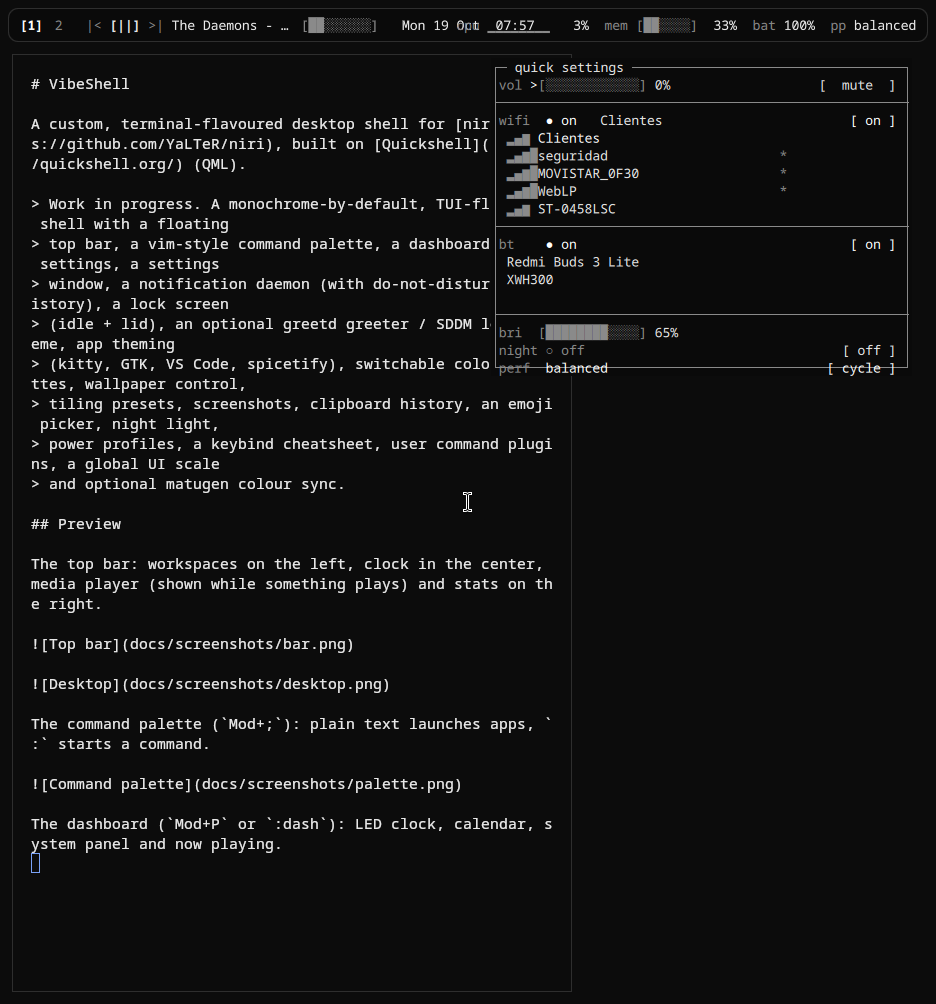
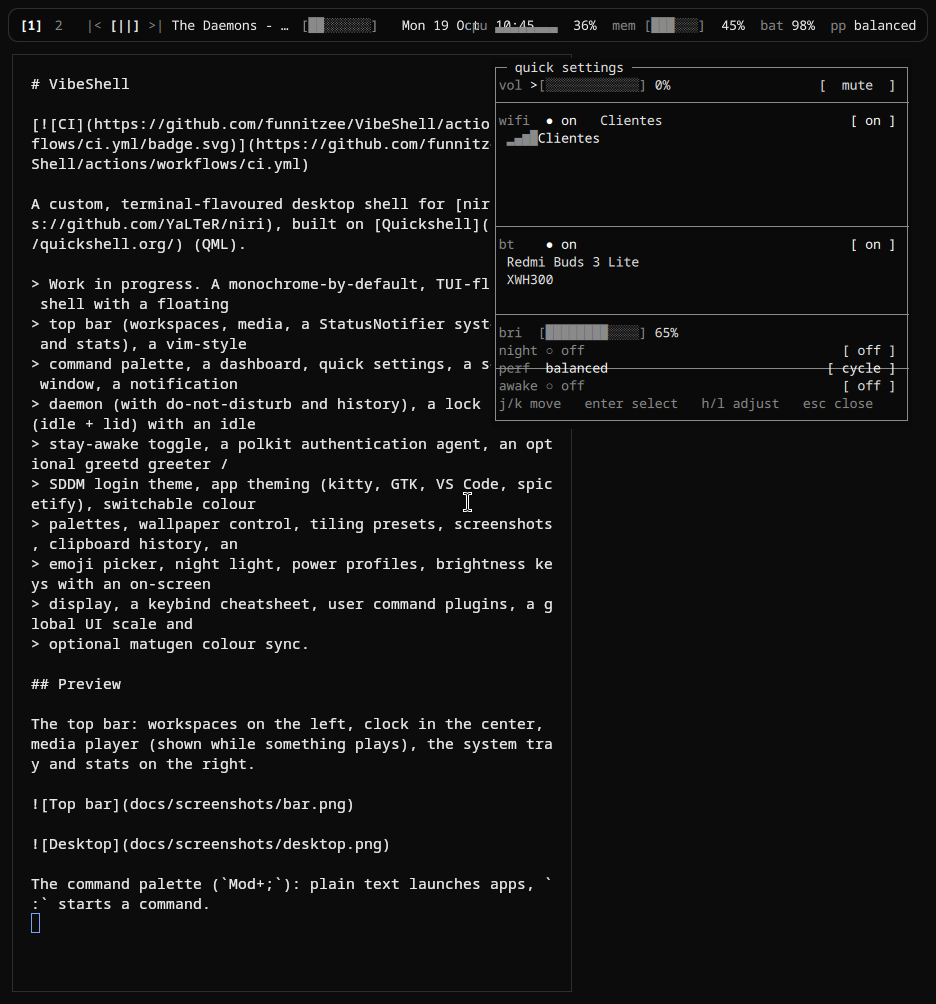
docs: cover tray, polkit, brightness, stay-awake and releases
Refresh the screenshots and document the system tray, the polkit agent, the
brightness keys/OSD, the idle stay-awake toggle, the lint + release workflows
and the new roadmap entries.

diff --git a/README.md b/README.md
@@ -5,17 +5,19 @@
 A custom, terminal-flavoured desktop shell for [niri](https://github.com/YaLTeR/niri), built on [Quickshell](https://quickshell.org/) (QML).
 
 > Work in progress. A monochrome-by-default, TUI-flavoured shell with a floating
-> top bar, a vim-style command palette, a dashboard, quick settings, a settings
-> window, a notification daemon (with do-not-disturb and history), a lock screen
-> (idle + lid), an optional greetd greeter / SDDM login theme, app theming
-> (kitty, GTK, VS Code, spicetify), switchable colour palettes, wallpaper control,
-> tiling presets, screenshots, clipboard history, an emoji picker, night light,
-> power profiles, a keybind cheatsheet, user command plugins, a global UI scale
-> and optional matugen colour sync.
+> top bar (workspaces, media, a StatusNotifier system tray and stats), a vim-style
+> command palette, a dashboard, quick settings, a settings window, a notification
+> daemon (with do-not-disturb and history), a lock screen (idle + lid) with an idle
+> stay-awake toggle, a polkit authentication agent, an optional greetd greeter /
+> SDDM login theme, app theming (kitty, GTK, VS Code, spicetify), switchable colour
+> palettes, wallpaper control, tiling presets, screenshots, clipboard history, an
+> emoji picker, night light, power profiles, brightness keys with an on-screen
+> display, a keybind cheatsheet, user command plugins, a global UI scale and
+> optional matugen colour sync.
 
 ## Preview
 
-The top bar: workspaces on the left, clock in the center, media player (shown while something plays) and stats on the right.
+The top bar: workspaces on the left, clock in the center, media player (shown while something plays), the system tray and stats on the right.
 
 ![Top bar](docs/screenshots/bar.png)
 
@@ -29,7 +31,7 @@ The dashboard (`Mod+P` or `:dash`): LED clock, calendar, system panel and now pl
 
 ![Dashboard](docs/screenshots/dashboard.png)
 
-The quick settings panel (`Mod+S` or `:qs`): volume, Wi-Fi, Bluetooth and brightness. Navigate with `j`/`k`, activate with `Enter`, `h`/`l` adjusts volume or brightness, `Esc`/`q` closes.
+The quick settings panel (`Mod+S` or `:qs`): volume, Wi-Fi, Bluetooth, brightness, night light, power profile and an idle stay-awake toggle. Navigate with `j`/`k`, activate with `Enter`, `h`/`l` adjusts volume or brightness, `Esc`/`q` closes.
 
 ![Quick settings](docs/screenshots/quick.png)
 
@@ -49,6 +51,7 @@ Notifications: VibeShell is the notification daemon, and popups are TUI cards wi
 - Lid close: the shell watches `/proc/acpi/button/lid/*/state` and locks as soon as the
   lid is closed (works on any laptop; a no-op on desktops)
 - Idle: auto-lock after `idle.lock` seconds, power off monitors after `idle.screenOff` seconds (set to 0 to disable)
+- Stay awake: `:awake` (or `idle.stayAwake`) disables both idle timers entirely, for watching something long
 - PAM: uses `lock.service` (defaults to `login`); set `VIBESHELL_PAM_DIR` to test custom PAM configs
 - Note: while locked, niri blocks screen capture
 
@@ -153,7 +156,8 @@ The base `pacman` step installs everything the shell talks to:
 `niri`, `quickshell`, `ttf-jetbrains-mono-nerd`, `kitty`, `brightnessctl`,
 `swaybg`, `wireplumber` (`wpctl` for the volume keys/OSD), `networkmanager`
 (the Wi-Fi panel), `bluez` (the Bluetooth panel), `upower` (the battery readout)
-and `matugen` (colour sync). The display managers/aids are only pulled in by their
+and `matugen` (colour sync). The `brightnessctl` package drives the brightness
+keys and their OSD. The display managers/aids are only pulled in by their
 flags: `sddm` (`--sddm`), `greetd` (`--greeter`) and `keyd` (`--super-tap`).
 Installing a package does not start its daemon, so the installer prints a hint if
 `NetworkManager`, `bluetooth` or `upower` are not running. The `balanced`/`full`
@@ -241,6 +245,7 @@ Press `Mod+;` (bound by the installer's niri snippet). Type to search applicatio
 | `:emoji` | emoji picker (copies to the clipboard) |
 | `:keys` | keybind cheatsheet overlay |
 | `:lock` | lock the screen |
+| `:awake [on\|off]` | keep the screen awake (toggle when no argument) |
 | `:theming` | regenerate app theme files under `app-themes/` |
 | `:theme [name\|next]` | switch colour palette (`next` cycles) |
 | `:wallpaper [next\|prev\|<path>]` | change the wallpaper |
@@ -284,7 +289,7 @@ types a value, `Esc`/`q` closes.
   "night": { "enabled": false, "temperature": 4500 },
   "power": { "lowThreshold": 15 },
   "lock": { "service": "login" },
-  "idle": { "lock": 300, "screenOff": 600 },
+  "idle": { "lock": 300, "screenOff": 600, "stayAwake": false },
   "bar": { "height": 34, "gap": 8, "radius": 10, "borderWidth": 1 }
 }
 ```
@@ -319,6 +324,22 @@ bar when their tools are installed:
 - **Power profiles** (`:power profile`, or `:power profile performance`):
   `power-profiles-daemon`'s `power-saver` / `balanced` / `performance` from
   `powerprofilesctl`. The quick settings row cycles them with `Enter`/`h`/`l`.
+
+## System tray
+
+The bar shows a StatusNotifier (app indicator) tray to the left of the stats: one
+text token per item. Left click activates, middle click runs the secondary action, the
+wheel scrolls (volume mixers, ...) and a right click opens the item's menu when it has
+one. Nothing to configure — it uses the same `StatusNotifierWatcher` as any other
+shell, so items simply appear as apps register.
+
+## Authentication agent (polkit)
+
+The shell runs a polkit agent: when a privileged action needs a password, a centered
+TUI prompt appears (message, prompt, masked input; `Enter` authenticates, `Esc`
+cancels). Only one agent can own a subject at a time, so if you already run one
+(gnome-polkit, hyprpolkitagent, ...) VibeShell's stays dormant and the window never
+shows.
 
 ## CLI and user scripts
 
@@ -385,12 +406,18 @@ palette
   ok    :help lists commands
   ok    :calc adds
   ...
-passed 23, failed 0
+passed 29, failed 0
 ```
 
 CI runs the same script on every push and pull request
 (`.github/workflows/ci.yml`): an Arch Linux container with a headless Weston
-acting as the host compositor for the nested niri, so the suite needs no GPU.
+acting as the host compositor for the nested niri, so the suite needs no GPU. A
+separate `lint` job runs `dev/lint.sh` (syntax check, shellcheck and qmllint) on
+the shell and scripts.
+
+Pushing a `v*` tag runs `.github/workflows/release.yml`, which builds
+`packaging/PKGBUILD` (pinned to the tag) and attaches the `.pkg.tar.zst` plus a
+`.sha256` to a generated GitHub release.
 
 ## Layout
 
@@ -398,16 +425,17 @@ acting as the host compositor for the nested niri, so the suite needs no GPU.
 install.sh   Installer
 bin/         vibeshell CLI wrapper
 shell/       Quickshell config (entry point: shell/shell.qml)
-  bar/       Bar and its modules
+  bar/       Bar and its modules (workspaces, media, tray, stats)
   dashboard/ Dashboard: clock, calendar, system panel, now playing
-  quick/     Quick settings: volume, Wi-Fi, Bluetooth, brightness, night light, power profiles
+  quick/     Quick settings: volume, Wi-Fi, Bluetooth, brightness, night light, power profiles, stay awake
   settings/  Settings window: edit and save any setting in place
   keys/      Keybind cheatsheet overlay
   notify/    Notification popups (TUI cards)
-  osd/       On-screen display (volume, night light, power profiles)
+  osd/       On-screen display (volume, night light, power profiles, brightness)
   palette/   Command palette (UI and command backend)
+  polkit/    Polkit authentication agent prompt
   components/ Reusable pieces: TuiFrame, Spark, Gauge, Txt, BigClock, Eq
-  services/  Singletons: niri, media, audio, network, bluetooth, brightness, power, stats, notifications, wallpaper, screenshot, clipboard, night light, power profiles, app theming
+  services/  Singletons: niri, media, audio, network, bluetooth, brightness, power, stats, notifications, wallpaper, screenshot, clipboard, night light, power profiles, app theming, idle
   palettes/  Color palettes
   defaults/  Shipped default settings
 sddm/        SDDM login theme (installed with --sddm)
@@ -453,3 +481,9 @@ docs/        Screenshots used in this README
 - [x] OSD for night light and power profiles
 - [x] Settings window: night light, power profile, DND, battery threshold
 - [x] Self-contained smoke tests (`dev/test.sh`)
+- [x] Brightness OSD and brightness keys
+- [x] Idle stay-awake toggle (`:awake`)
+- [x] System tray (StatusNotifier)
+- [x] Polkit authentication agent
+- [x] CI: lint (shellcheck + qmllint) and smoke tests on every push
+- [x] Release pipeline (tag → package + GitHub release)
